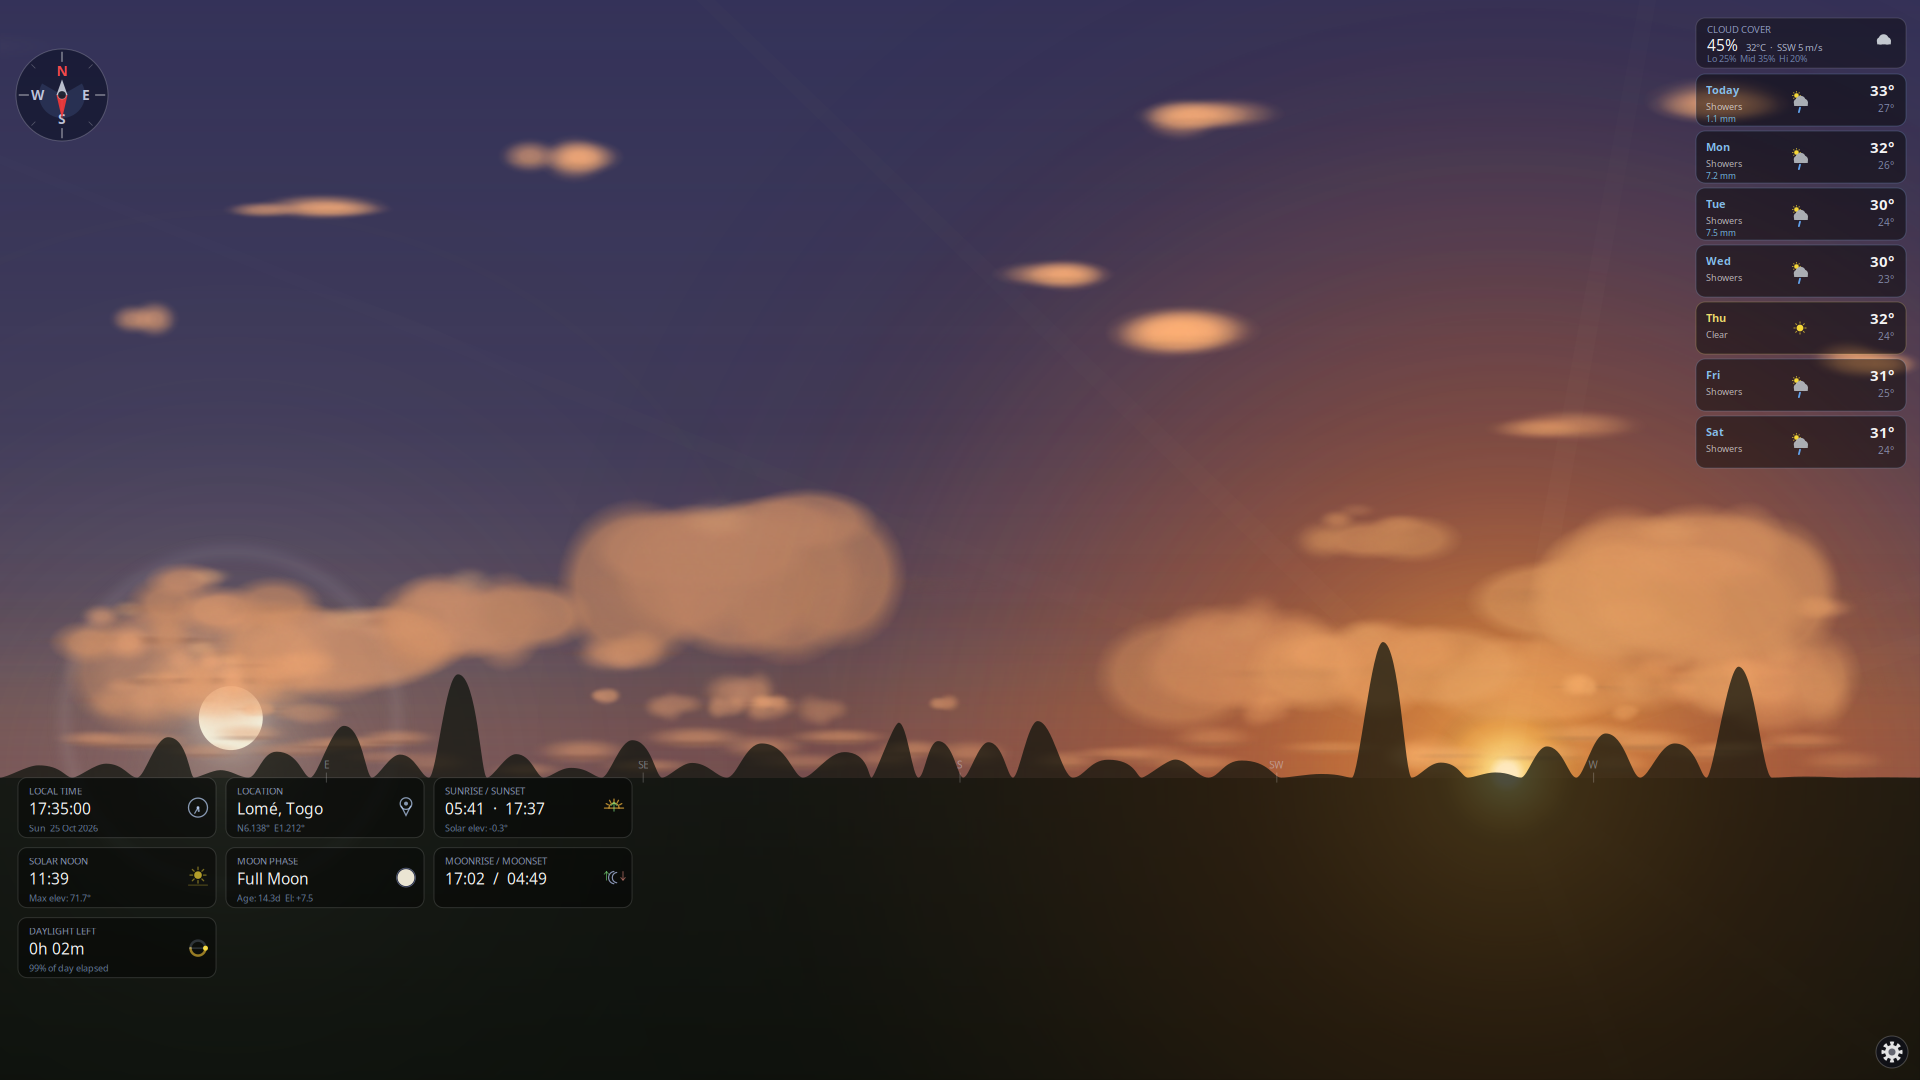
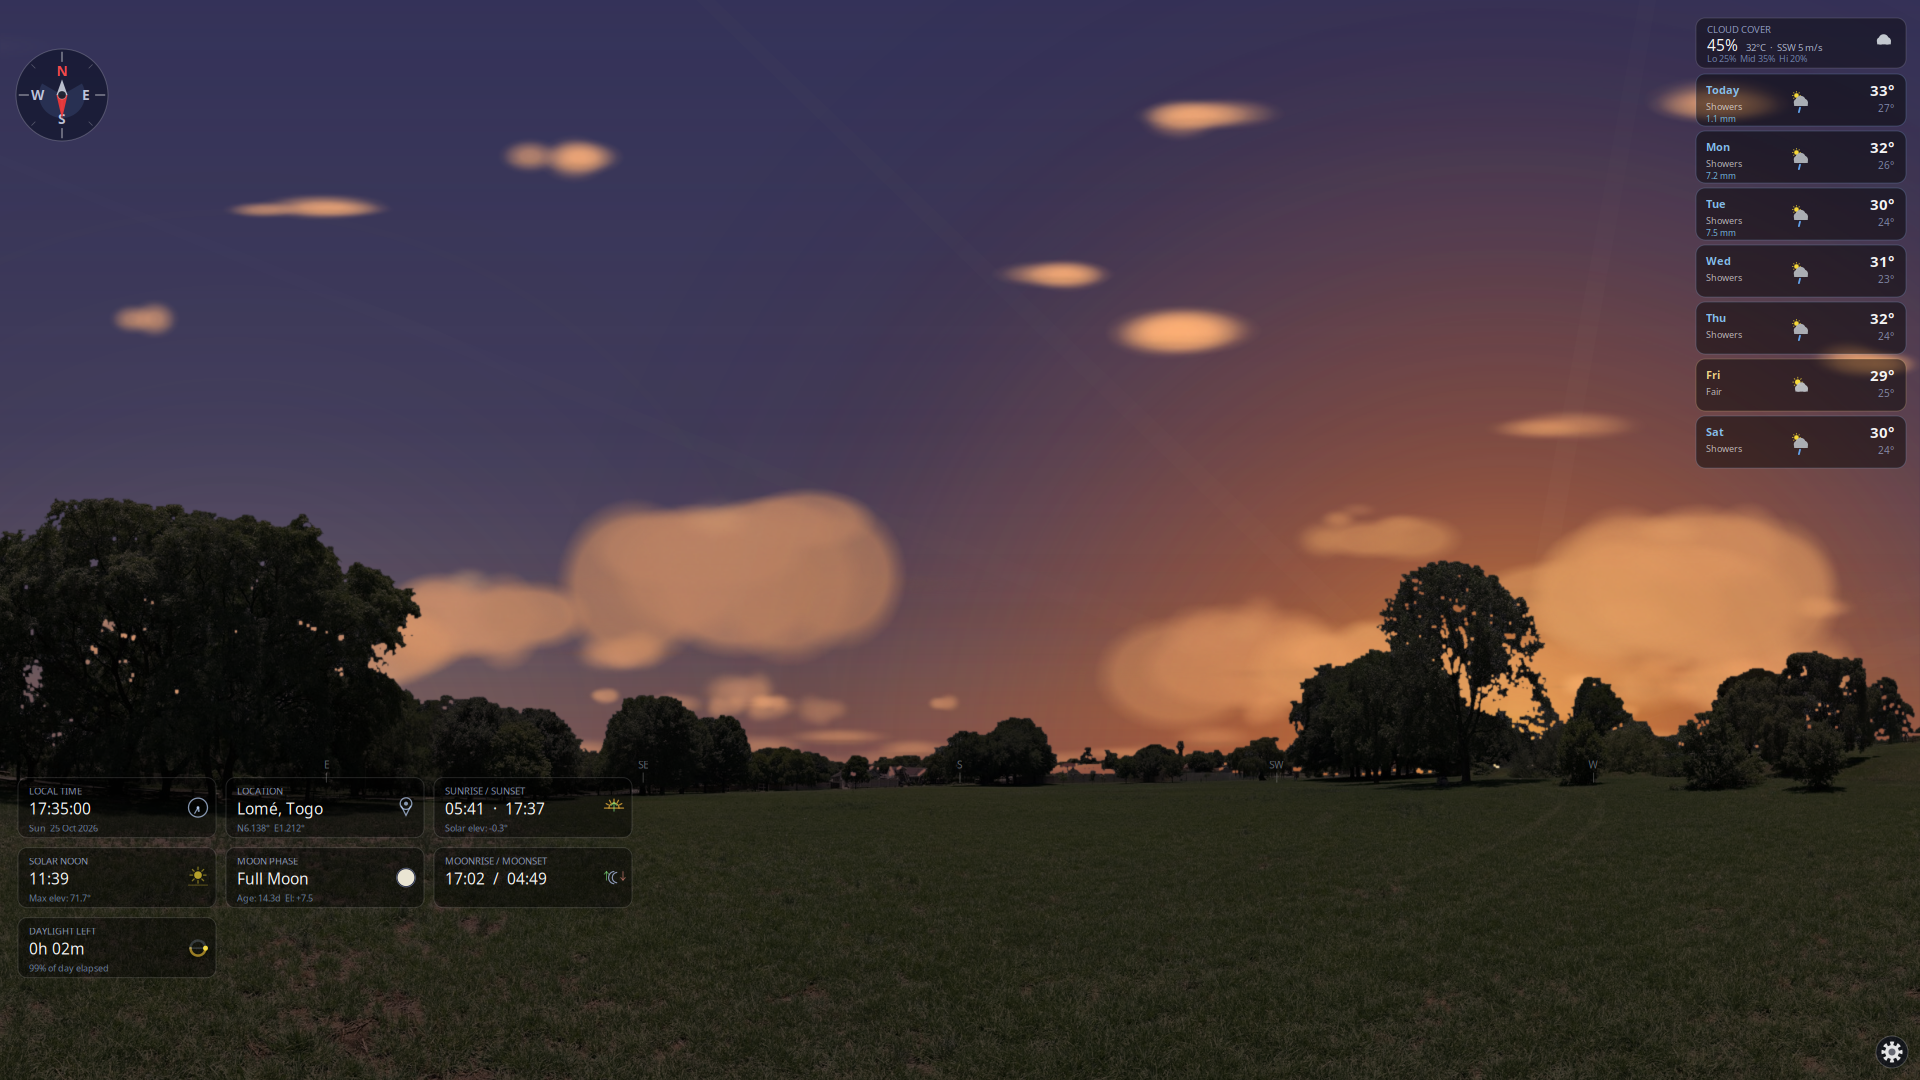
release 1.4.0: landscape edges relit correctly, version bump, changelog, screenshots
The relight was masked by the photo's alpha, so soft canopy edges only got
part of the darkening and glowed at night. Keep the photo opaque, relight it,
then apply the cut-out last with DEST_IN.

diff --git a/caelum/gtk_ui/landscape.py b/caelum/gtk_ui/landscape.py
@@ -38,11 +38,16 @@ class Landscape:
         pix  = GdkPixbuf.Pixbuf.new_from_file(os.path.join(_DIR, name + '.jpg'))
         mask = cairo.ImageSurface.create_from_png(os.path.join(_DIR, name + '-mask.png'))
         self.w, self.h = pix.get_width(), pix.get_height()
-        # Photo with the sky cut out, premultiplied, ready to sample
-        self.surf = cairo.ImageSurface(cairo.FORMAT_ARGB32, self.w, self.h + _PAD)
+        # The photo (opaque) and its sky cut-out are kept apart: the cut-out is applied after
+        # relighting, so the soft edges get darkened as much as the rest
+        self.surf = cairo.ImageSurface(cairo.FORMAT_RGB24, self.w, self.h + _PAD)
         cr = cairo.Context(self.surf)
         Gdk.cairo_set_source_pixbuf(cr, pix, 0, _PAD)
-        cr.mask_surface(mask, 0, _PAD)
+        cr.paint()
+        self.mask = cairo.ImageSurface(cairo.FORMAT_ARGB32, self.w, self.h + _PAD)
+        cr = cairo.Context(self.mask)
+        cr.set_source_surface(mask, 0, _PAD)
+        cr.paint()
 
     def render(self, W, H, facing, light, sat):
         """
@@ -59,27 +64,27 @@ class Landscape:
         u0  = self.w * self.south + (az0 - 180.0) * px_per_deg
         kv  = self.h / (self.top + self.bottom) * 90.0 / (_YH * H)
         v0  = self.h / (self.top + self.bottom) * (self.top - _HORIZON * 90.0 / _YH) + kv * y_top + _PAD
-        pat = cairo.SurfacePattern(self.surf)
-        pat.set_matrix(cairo.Matrix(k, 0, 0, kv, u0 % self.w, v0))
-        pat.set_extend(cairo.Extend.REPEAT)
-        pat.set_filter(cairo.Filter.GOOD)
-        cr.set_source(pat)
+        matrix = cairo.Matrix(k, 0, 0, kv, u0 % self.w, v0)
+
+        def pattern(surf):
+            pat = cairo.SurfacePattern(surf)
+            pat.set_matrix(matrix)
+            pat.set_extend(cairo.Extend.REPEAT)
+            pat.set_filter(cairo.Filter.GOOD)
+            return pat
+        cr.set_source(pattern(self.surf))
         cr.paint()
-        if sat < 0.99 or light != (1.0, 1.0, 1.0):
-            base = out.create_similar_image(cairo.FORMAT_ARGB32, out.get_width(), out.get_height())
-            bc = cairo.Context(base)
-            bc.set_source_surface(out)
-            bc.paint()
-            # Night vision: fade the colours (only where there is ground)
-            if sat < 0.99:
-                cr.push_group()
-                cr.set_source_surface(base)
-                cr.paint_with_alpha(1.0 - sat)
-                fade = cr.pop_group()
-                cr.set_operator(cairo.Operator.HSL_SATURATION)
-                cr.set_source_rgb(0.5, 0.5, 0.5)
-                cr.mask(fade)
+        # Night vision: fade the colours
+        if sat < 0.99:
+            cr.set_operator(cairo.Operator.HSL_SATURATION)
+            cr.set_source_rgb(0.5, 0.5, 0.5)
+            cr.paint_with_alpha(1.0 - sat)
+        if light != (1.0, 1.0, 1.0):
             cr.set_operator(cairo.Operator.MULTIPLY)
             cr.set_source_rgb(*light)
-            cr.mask_surface(base)
+            cr.paint()
+        # Cut the sky out
+        cr.set_operator(cairo.Operator.DEST_IN)
+        cr.set_source(pattern(self.mask))
+        cr.paint()
         return out, y_top

diff --git a/caelum/__init__.py b/caelum/__init__.py
@@ -1,3 +1,3 @@
 """Caelum — live sky overlay: sun, moon, planets, stars and weather for your location."""
 
-__version__ = '1.3.1'
+__version__ = '1.4.0'

diff --git a/JOURNAL.md b/JOURNAL.md
@@ -1009,7 +1009,7 @@ thick low cloud: 80% cirrus alone left the sun at ~33% and greyed the sky with t
   switch updates `cfg`, saves once and redraws; the tab is remembered across reopen. 26 tests pass,
   pyflakes clean. `data/screenshots/settings.png` is still the old dialog; update it at the next release.
 
-### Photo landscapes along the horizon (unreleased)
+### Photo landscapes along the horizon (released in 1.4.0)
 - **Request**: replace the dark horizon band with a green plain with a few trees. Also offer mountains
   and the sea, using real images rather than drawings.
 - **Source**: Poly Haven 360° panoramas, **CC0**, so they are fine for Debian/PPA, snap and flatpak.
@@ -1032,7 +1032,8 @@ thick low cloud: 80% cirrus alone left the sun at ~33% and greyed the sky with t
     to the sky colour; at the defaults the central massif lost its top half.
   - `top` = tallest feature + 2° (38°/30°/28°). Output: `<name>.jpg` (q82), `<name>-mask.png`
     (opacity in the alpha channel, which is how cairo reads it), `landscapes.json`. ~2 MB in total.
-- **`gtk_ui/landscape.py`**: the photo and mask become one premultiplied ARGB surface. `render()` maps
+- **`gtk_ui/landscape.py`** (as first written; the relight was later reworked, see Release 1.4.0): the
+  photo and mask become one premultiplied ARGB surface. `render()` maps
   screen → photo with a single cairo pattern matrix. Columns follow azimuth through `sky_to_screen`'s
   constants, wrapping the panorama with `Extend.REPEAT`. Rows follow elevation. `south` is the panorama
   column facing south. Then relighting: HSL_SATURATION towards grey (night vision) and MULTIPLY by the
@@ -1065,3 +1066,19 @@ thick low cloud: 80% cirrus alone left the sun at ~33% and greyed the sky with t
 - Version bump: `__init__.py`, `debian/changelog` 1.3.1-1, metainfo release notes, screenshots pinned
   to `v1.3.1`. `settings.png` is now the new dialog (Sky tab, captured from this code) over
   `night.png`, the same composition as before.
+
+### Release 1.4.0 (2026-10-25)
+- Photo landscapes, on master after the 1.3.1 merge.
+- **Night-time rim fix found while making the screenshots**: the moonlit night showed pale outlines
+  around the tree canopies and the holes in the leaves. Cause: the relight was MULTIPLY masked by the
+  photo's alpha, so a half-transparent edge pixel got only half the darkening and stayed brighter
+  than both the dark ground and the night sky.
+  - Darkening the edge colours in the generator (min-filter near the cut) did not remove the rim, and
+    it left blotchy dark edges in daylight. Reverted.
+  - Fix in `gtk_ui/landscape.py`: the photo stays opaque (RGB24) and the cut-out is a separate
+    surface. `render()` paints the photo, desaturates and multiplies with plain paints, then applies the
+    cut-out last with DEST_IN through the same pattern matrix. Edges are now darkened exactly like the
+    rest; the day render is unchanged. Re-render cost 53 ms (was 62).
+- New screenshots: day, sunset and night with the plain landscape. `settings.png` is the Sky tab
+  with the Landscape row, over the new night shot. Metainfo captions updated, URLs pinned to `v1.4.0`.
+- Version bump: `__init__.py`, `debian/changelog` 1.4.0-1, metainfo release notes.
